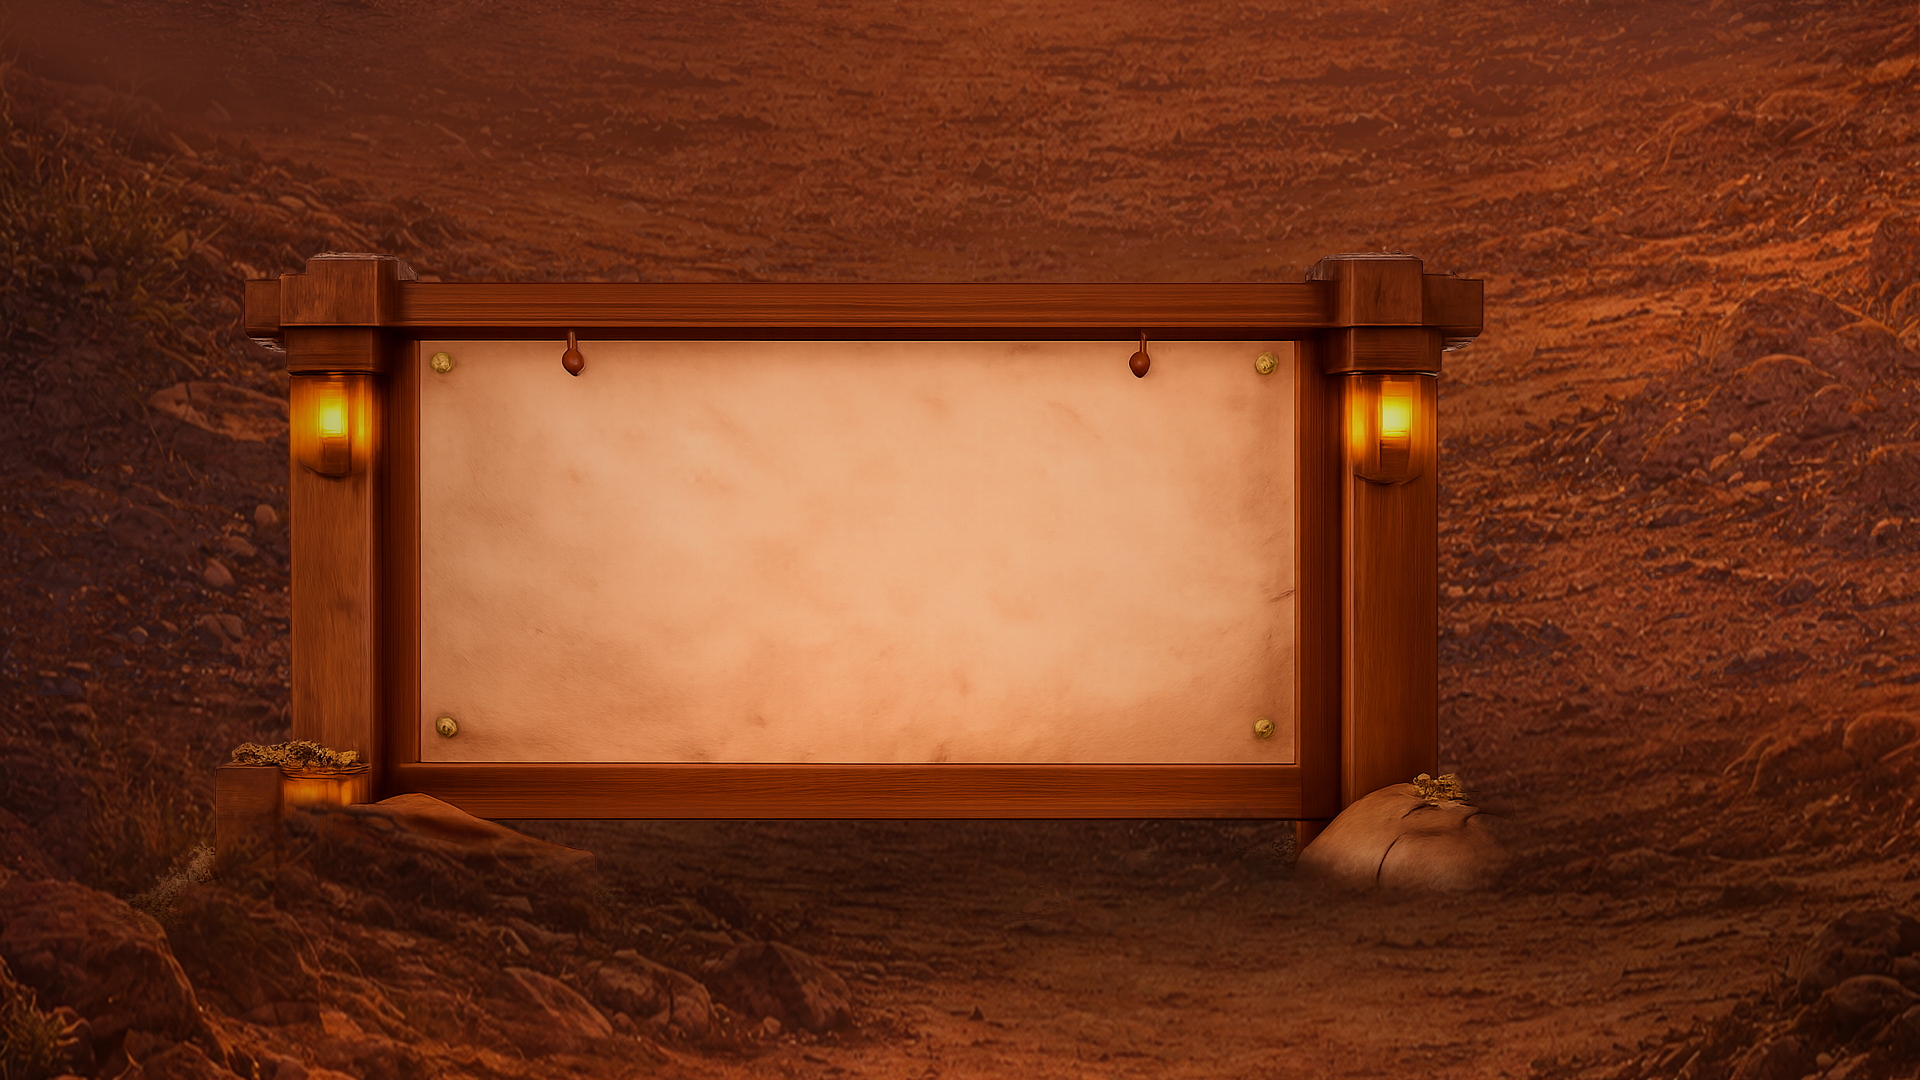
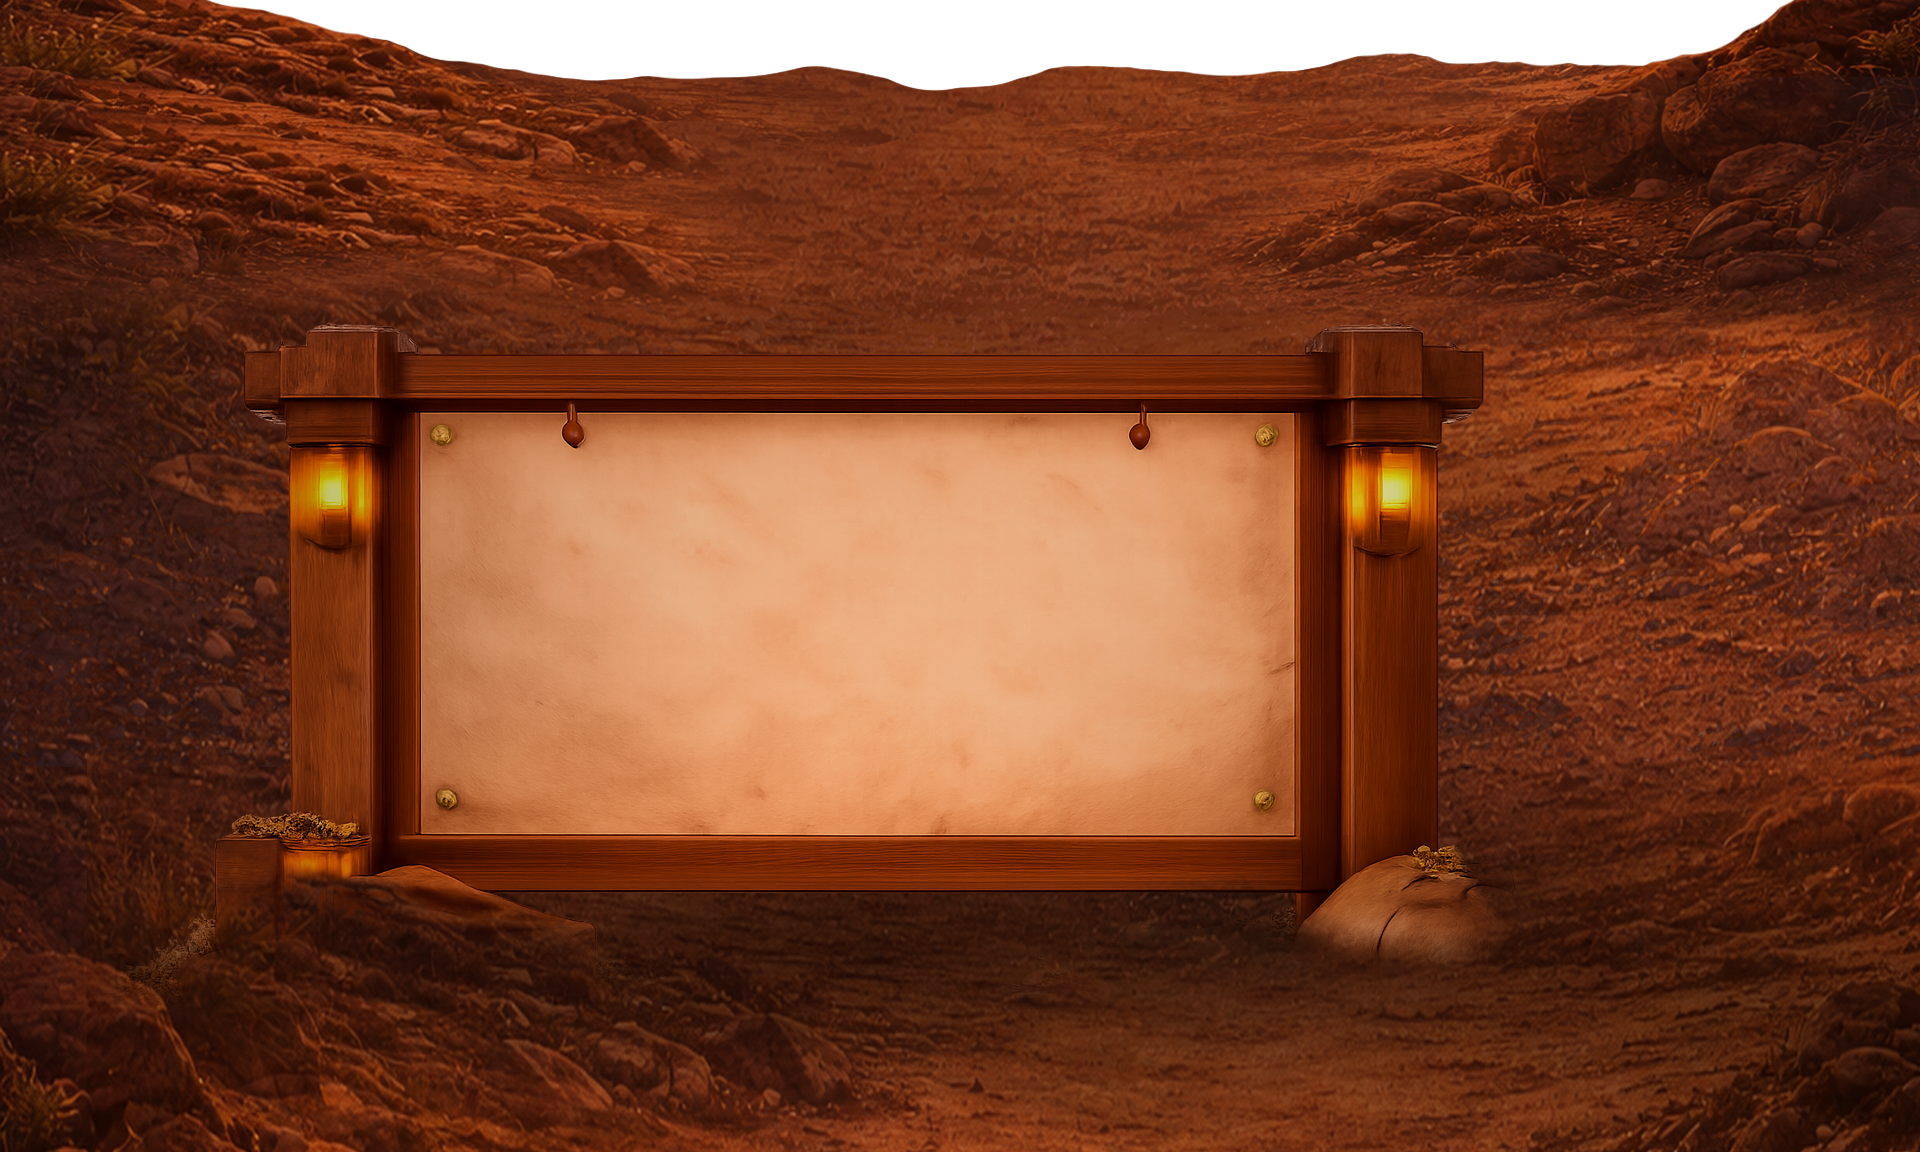
feat: Worked on parallax scroll effect, floating header text

diff --git a/components/homeComponents/HomeHero2.tsx b/components/homeComponents/HomeHero2.tsx
@@ -1,13 +1,62 @@
+import { useEffect, useState } from 'react';
+import { CSSProperties } from 'react';
 import BackgroundCircles from '../BackgroundCircles';
 import { useAuthContext } from '../../lib/user/AuthContext';
 import AppHeader2_Wrapper from '../AppHeader2/wrapper';
 import { useRouter } from 'next/router';
 
 export default function HomeHero() {
+  const [scrollY, setScrollY] = useState(0);
+
+  useEffect(() => {
+    let ticking = false;
+
+    const handleScroll = () => {
+      if (!ticking) {
+        window.requestAnimationFrame(() => {
+          const heroHeight = window.innerHeight;
+          if (window.scrollY < heroHeight) {
+            setScrollY(window.scrollY);
+          } else {
+            setScrollY(heroHeight);
+          }
+          ticking = false;
+        });
+        ticking = true;
+      }
+    };
+
+    window.addEventListener('scroll', handleScroll, { passive: true });
+    return () => window.removeEventListener('scroll', handleScroll);
+  }, []);
+
   return (
-    <section className="min-h-screen flex flex-col-reverse md:flex-col section-bg bg-1 bg-cover bg-center overflow-x-hidden">
+    <section
+      className="flex flex-col-reverse md:flex-col section-bg bg-sky bg-cover bg-center overflow-hidden relative"
+      style={{ minHeight: '220vh' }}
+    >
+      {/* Parallax Sky Background */}
+      <div
+        className="parallax-sky"
+        style={{
+          transform: `translateY(${scrollY * 0.5}px)`,
+          transition: 'transform 0.1s ease-out',
+        }}
+      />
+
+      {/* Parallax Foreground */}
+      <div
+        className="parallax-foreground"
+        style={{
+          transform: `translateY(${scrollY * 0.2}px)`,
+          transition: 'transform 0.1s ease-out',
+        }}
+      />
+
       {/* App header */}
-      <AppHeader2_Wrapper />
+      <div className="relative z-10">
+        <AppHeader2_Wrapper />
+      </div>
 
       <div className="flex h-screen w-full relative">
         {/* <div className="w-full h-full absolute top-0 left-0 z-0">
@@ -16,8 +65,13 @@ export default function HomeHero() {
 
         <div className="relative z-10 shrink-0 w-full flex">
           {/* Big welcome */}
-          <div className="absolute inset-0 z-10 flex items-center justify-center pointer-events-none px-4">
-            <div className="text-center transform -translate-y-16 md:-translate-y-28">
+          <div className="absolute inset-0 z-10 flex items-center mb-24 justify-center pointer-events-none px-4">
+            <div
+              className="text-center transform -translate-y-34 md:-translate-y-50"
+              style={{
+                animation: 'float 5s ease-in-out infinite',
+              }}
+            >
               <h1 className="rye-font text-white text-5xl md:text-7xl lg:text-7xl font-bold drop-shadow-2xl leading-tight">
                 NTHS Hackathon 2026
               </h1>
@@ -25,6 +79,68 @@ export default function HomeHero() {
                 March 5th-6th
               </p>
             </div>
+          </div>
+        </div>
+      </div>
+
+      {/* About NTHS Hack Section - above foreground */}
+      <div
+        className="absolute w-full"
+        style={{
+          top: '105vh',
+          height: '120vh',
+          zIndex: 20,
+          pointerEvents: 'none',
+        }}
+      >
+        <div className="section-bg bg-2 w-full h-full relative">
+          {/* text overlay INSIDE billboard */}
+          <div
+            style={{
+              position: 'absolute',
+              left: '44%',
+              top: '45%',
+              transform: 'translate(-50%, -50%)',
+              width: '50%',
+              maxWidth: '550px',
+              textAlign: 'center' as const,
+              color: '#fff',
+              textShadow: '0 6px 18px rgba(0,0,0,0.5)',
+              zIndex: 20,
+              pointerEvents: 'none' as const,
+            }}
+          >
+            <h1
+              style={{
+                fontFamily: "'Alfa Slab One', cursive",
+                fontWeight: 250,
+                fontSize: 'clamp(28px, 4vw, 68px)',
+                margin: 0,
+                transform: 'translateY(-72px)',
+              }}
+            >
+              About NTHS Hack
+            </h1>
+            <p
+              style={{
+                fontFamily: "'Alfa Slab One', cursive",
+                fontWeight: 200,
+                fontSize: 'clamp(8px, 1.2vw, 22px)',
+                lineHeight: 1.5,
+                marginTop: '12px',
+                maxHeight: '42vh',
+                overflow: 'hidden',
+              }}
+            >
+              The Association of Computing Machinery (ACM) at the University of Texas at Dallas will
+              be hosting the third iteration of our hackathon experience! This two day long event
+              will be an intense competition of self expression and creativity through technology,
+              where students will get the chance to showcase their web development skills. High
+              school students across North Texas with varying technical backgrounds will come
+              together, form teams, and build unique solutions from scratch. This beginner-friendly
+              hackathon is an extraordinary opportunity for you to win prizes, compete, and
+              jumpstart your journey in technology!
+            </p>
           </div>
         </div>
       </div>

diff --git a/styles/globals.css b/styles/globals.css
@@ -234,11 +234,57 @@ a.link {
 }
 
 /* Hero background */
-.bg-1 {
-  background-image: url('/assets/bg-1.png');
+.bg-sky {
+  background-image: url('/assets/sky.png');
   background-repeat: no-repeat;
   background-position: top center;
   background-size: cover;
+}
+
+@keyframes skyDrift {
+  0%, 100% {
+    transform: translateX(0);
+  }
+  50% {
+    transform: translateX(-30px);
+  }
+}
+
+@keyframes float {
+  0%, 100% {
+    transform: translateY(0);
+  }
+  50% {
+    transform: translateY(-10px);
+  }
+}
+
+.parallax-sky {
+  position: absolute;
+  bottom: -170px;
+  left: 0;
+  width: 110%;
+  height: 120%;
+  background-image: url('/assets/sky.png');
+  background-repeat: no-repeat;
+  background-position: center top;
+  background-size: 100% auto;
+  z-index: 1;
+  animation: skyDrift 25s cubic-bezier(0.45, 0.05, 0.55, 0.95) infinite;
+  will-change: transform;
+}
+
+.parallax-foreground {
+  position: absolute;
+  bottom: 600px;
+  left: 0;
+  width: 100%;
+  height: 100%;
+  background-image: url('/assets/foreground.png');
+  background-repeat: no-repeat;
+  background-position: bottom center;
+  background-size: contain;
+  z-index: 2;
 }
 
 /* Secondary background used for next section */

diff --git a/components/homeComponents/HomeAbout.tsx b/components/homeComponents/HomeAbout.tsx
@@ -10,6 +10,8 @@ const HomeAbout = () => {
       overflow: 'hidden',
       // IMPORTANT: remove big padding that pushes text around
       padding: 0,
+      marginTop: '-10vh',
+      backgroundColor: 'transparent',
     },
 
     // THIS is the "inside the billboard" box

diff --git a/pages/index.tsx b/pages/index.tsx
@@ -56,7 +56,7 @@ export default function Home(props: {
       </Head>
       <HomeNotif />
       <HomeHero2 />
-      <HomeAbout />
+      {/* <HomeAbout />*/}
       <HomeVideoStats />
       <HackCountdown />
       {/* Unified gradient background wrapper */}
